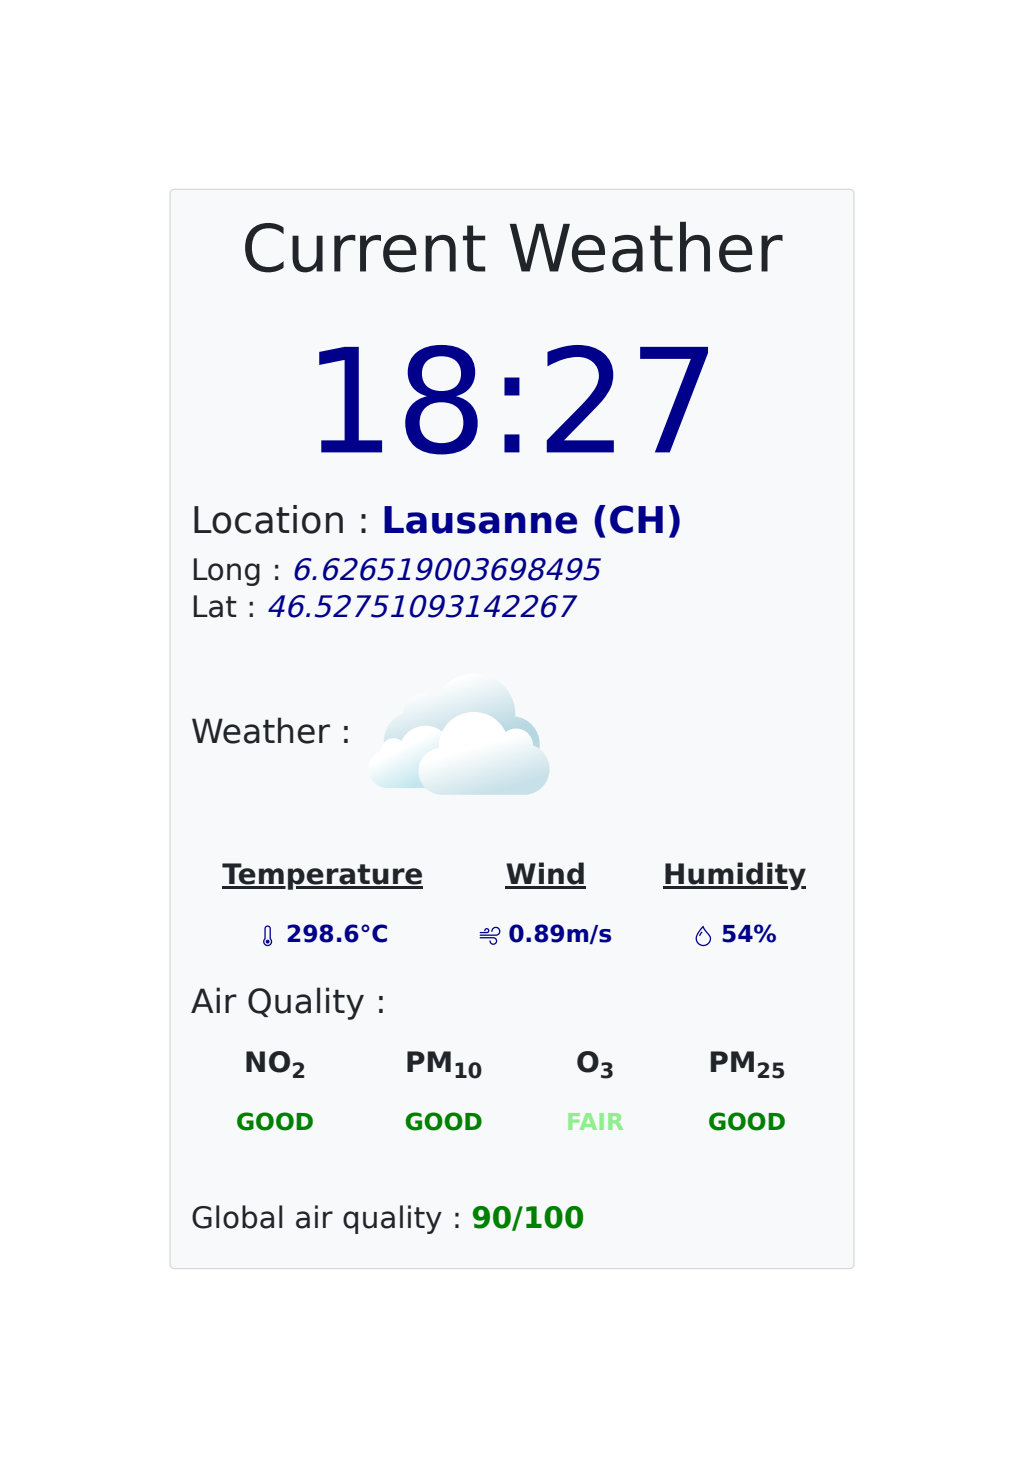
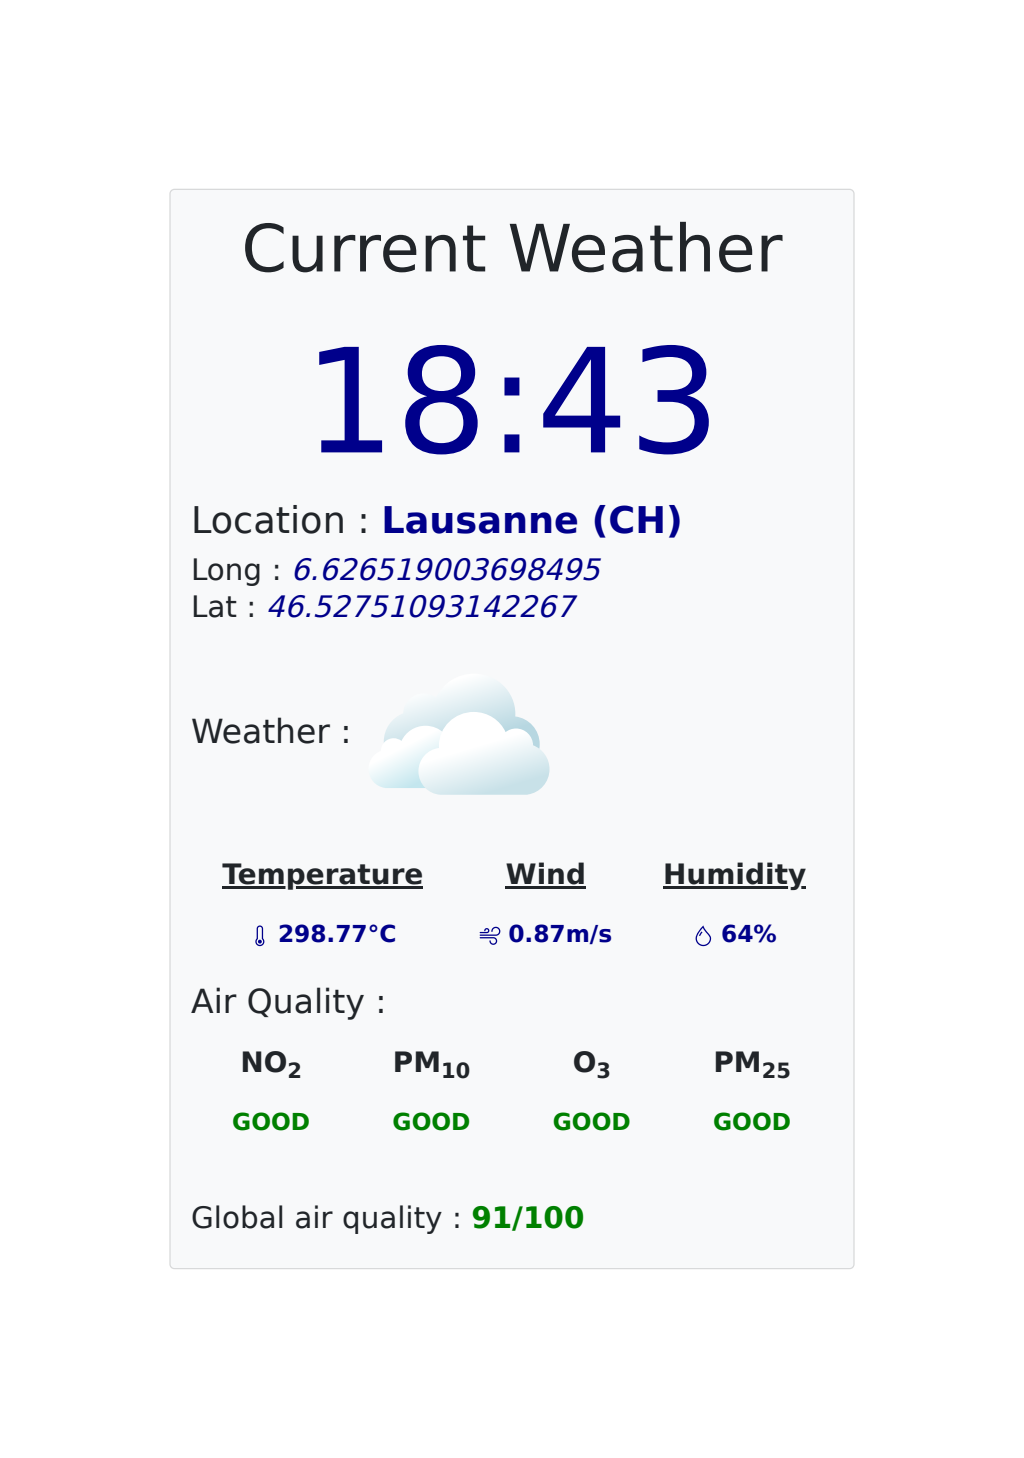
added color test for global label

diff --git a/files/current.html b/files/current.html
@@ -71,7 +71,7 @@
                                 <div class="card bg-light mx-auto">
                                     <div class="card-body">
                                         <h1 class="display-3" style="text-align: center; margin-bottom: 20px;">Current Weather</h1>
-                                        <h1 class="clock">18:27</h1>
+                                        <h1 class="clock">18:43</h1>
                                         <h2>Location : <b style="color : darkblue;">Lausanne (CH)</b> </h2>
                                         
                                         <h4>Long : <i style="color : darkblue;">6.626519003698495</i><br>Lat : <i style="color : darkblue;">46.52751093142267</i></h4>
@@ -84,14 +84,14 @@
                                             <td > <svg xmlns="http://www.w3.org/2000/svg" width="16" height="16" fill="currentColor" class="bi bi-thermometer" viewBox="0 0 16 16">
                                                 <path d="M8 14a1.5 1.5 0 1 0 0-3 1.5 1.5 0 0 0 0 3z"/>
                                                 <path d="M8 0a2.5 2.5 0 0 0-2.5 2.5v7.55a3.5 3.5 0 1 0 5 0V2.5A2.5 2.5 0 0 0 8 0zM6.5 2.5a1.5 1.5 0 1 1 3 0v7.987l.167.15a2.5 2.5 0 1 1-3.333 0l.166-.15V2.5z"/>
-                                            </svg> 298.6&#176;C</td>
+                                            </svg> 298.77&#176;C</td>
                                             <td > <svg xmlns="http://www.w3.org/2000/svg" width="16" height="16" fill="currentColor" class="bi bi-wind" viewBox="0 0 16 16">
                                                 <path d="M12.5 2A2.5 2.5 0 0 0 10 4.5a.5.5 0 0 1-1 0A3.5 3.5 0 1 1 12.5 8H.5a.5.5 0 0 1 0-1h12a2.5 2.5 0 0 0 0-5zm-7 1a1 1 0 0 0-1 1 .5.5 0 0 1-1 0 2 2 0 1 1 2 2h-5a.5.5 0 0 1 0-1h5a1 1 0 0 0 0-2zM0 9.5A.5.5 0 0 1 .5 9h10.042a3 3 0 1 1-3 3 .5.5 0 0 1 1 0 2 2 0 1 0 2-2H.5a.5.5 0 0 1-.5-.5z"/>
-                                            </svg> 0.89m/s</td>
+                                            </svg> 0.87m/s</td>
                                             <td > <svg xmlns="http://www.w3.org/2000/svg" width="16" height="16" fill="currentColor" class="bi bi-droplet" viewBox="0 0 16 16">
                                                 <path fill-rule="evenodd" d="M7.21.8C7.69.295 8 0 8 0c.109.363.234.708.371 1.038.812 1.946 2.073 3.35 3.197 4.6C12.878 7.096 14 8.345 14 10a6 6 0 0 1-12 0C2 6.668 5.58 2.517 7.21.8zm.413 1.021A31.25 31.25 0 0 0 5.794 3.99c-.726.95-1.436 2.008-1.96 3.07C3.304 8.133 3 9.138 3 10a5 5 0 0 0 10 0c0-1.201-.796-2.157-2.181-3.7l-.03-.032C9.75 5.11 8.5 3.72 7.623 1.82z"/>
                                                 <path fill-rule="evenodd" d="M4.553 7.776c.82-1.641 1.717-2.753 2.093-3.13l.708.708c-.29.29-1.128 1.311-1.907 2.87l-.894-.448z"/>
-                                            </svg> 54%</td>
+                                            </svg> 64%</td>
                                         </tr> 
                                         </table>
                                         <h3>Air Quality :</h3>
@@ -100,10 +100,10 @@
                                             <th>PM<sub>10</sub></th>
                                             <th>O<sub>3</sub></th>
                                             <th>PM<sub>25</sub></th>
-                                            <tr><td class="good">GOOD</td><td class="good">GOOD</td><td class="fair">FAIR</td><td class="good">GOOD</td></tr>
+                                            <tr><td class="good">GOOD</td><td class="good">GOOD</td><td class="good">GOOD</td><td class="good">GOOD</td></tr>
                                         </table>
                                         <br>
-                                        <h4>Global air quality : <b style="color : green;">90/100</b></h4>
+                                        <h4>Global air quality : <b style="color : green;">91/100</b></h4>
                                     </div>
                                 </div>
                             </div>

diff --git a/main.py b/main.py
@@ -304,7 +304,18 @@ def createhtmlcurrent(current, pollution):
     content += """</tr>
                                         </table>
                                         <br>
-                                        <h4>Global air quality : <b style="color : green;">"""+ str(round(air_quality_index*100)) +"""/100</b></h4>
+                                        <h4>Global air quality : <b style="color : """
+    if(round(air_quality_index*100) >= 90):
+        content += "green"
+    elif(round(air_quality_index*100) >= 80):
+        content += "lightgreen"
+    elif(round(air_quality_index*100) >= 70):
+        content += "yellowgreen"
+    elif(round(air_quality_index*100) >= 50):
+        content += "orange"
+    else:
+        content += "red"
+    content +=""";">"""+ str(round(air_quality_index*100)) +"""/100</b></h4>
                                     </div>
                                 </div>
                             </div>
